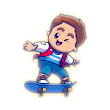
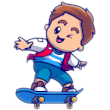
Update winner images

diff --git a/css/sytle.css b/css/sytle.css
@@ -82,20 +82,21 @@ body {
 
 .playerWinnerImg {
     background-image: url(../images/cool-kid.png);
+
 }
 
 .computerWinnerImg {
     background-image: url(../images/evil-pc.png);
 }
 
-
 .winnerImageDisplay {
     display: flex;
     height: 110px;
     width: 110px;
+    border: 1px solid black;
     background-color: #fff;
     border-radius: 10px;
-    object-fit: contain;
+    object-fit: center;
 }
 
 .scoreText {
